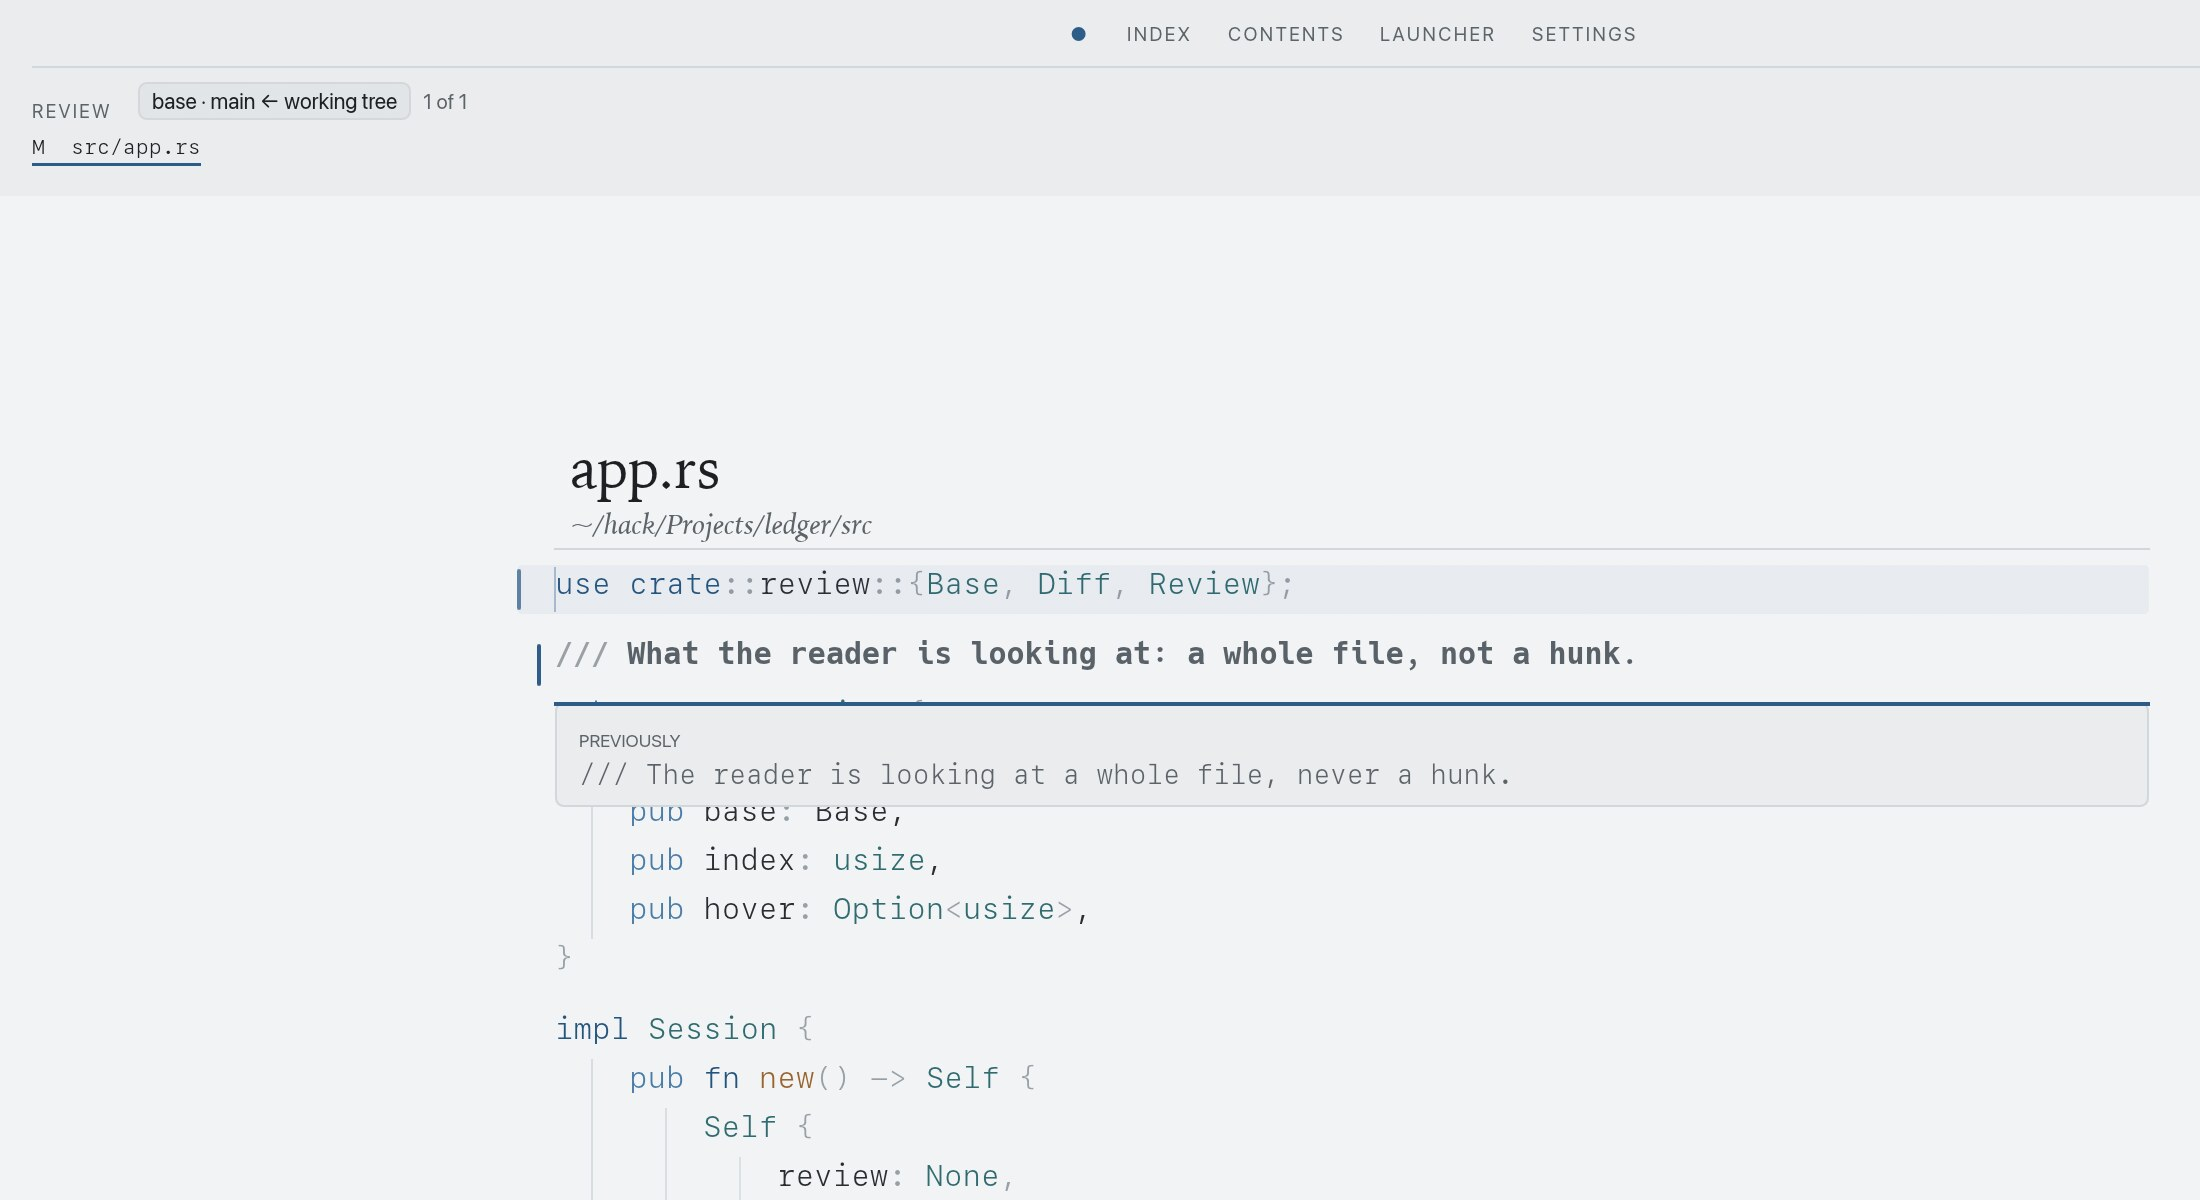
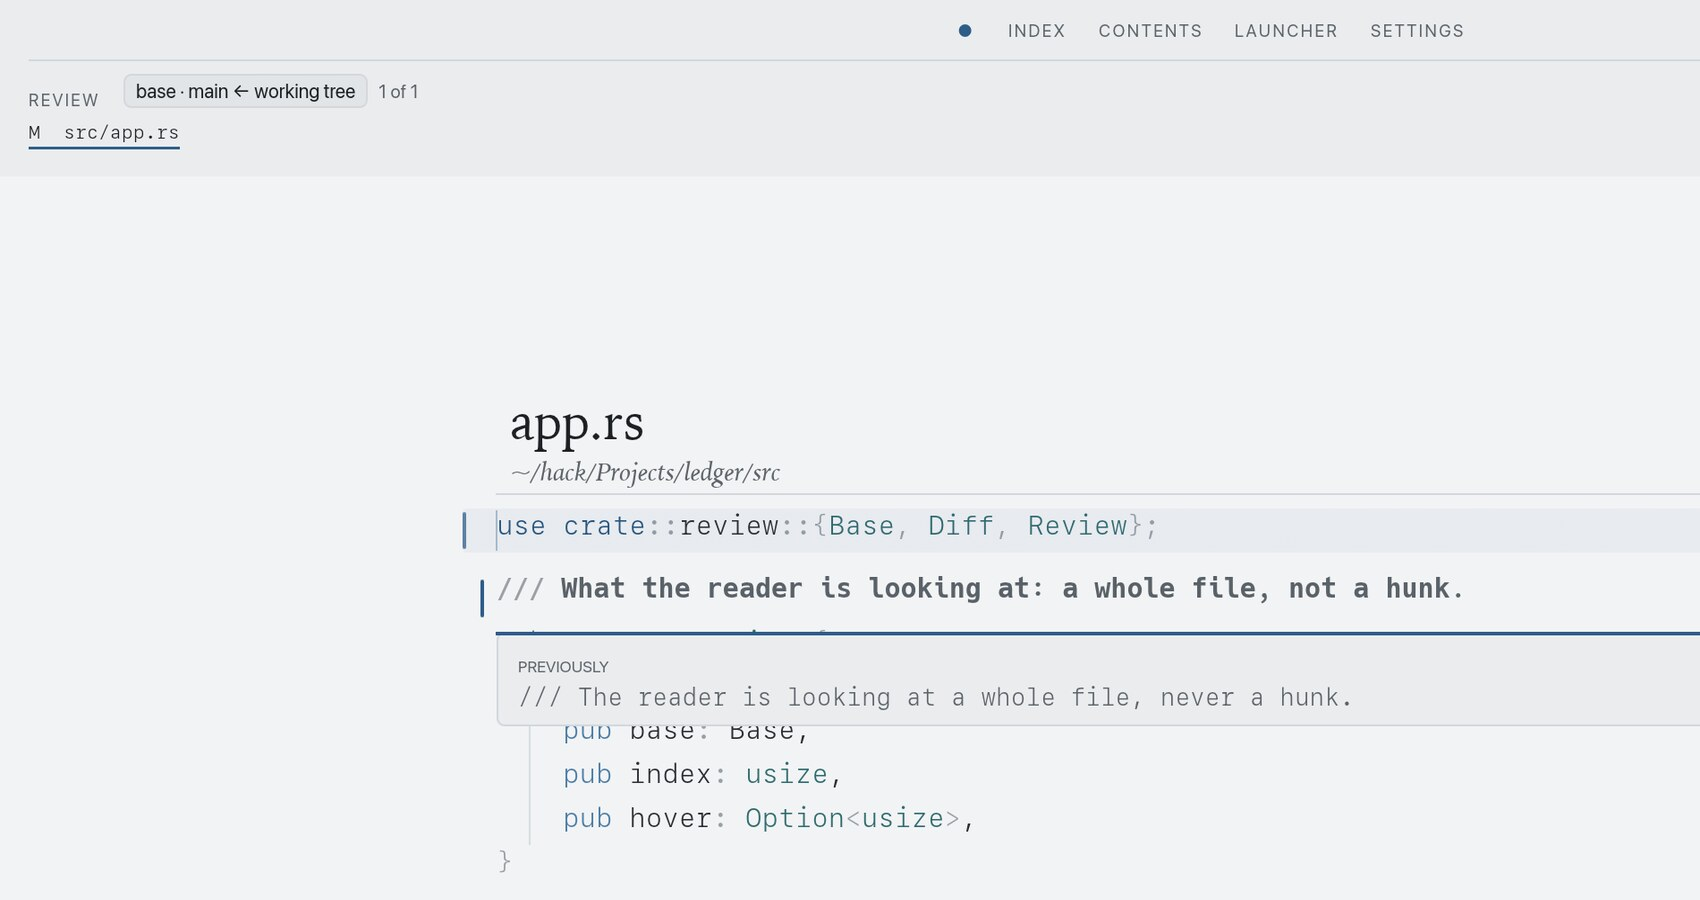
Bring the site figures back into the page's rhythm
The review capture was a full-width app window while the room uses a detail in a
column; it now has the same 1700x900 detail crop and the same two-column
placement, with a Lugano caption so the specimen is not mistaken for the page's
current theme.

The reading detail was being served from the old cached filename. Both figures
and their full-size links carry a version query, and the unused stale focus-lens
portrait is gone from the evidence.

diff --git a/docs/index.html b/docs/index.html
@@ -11,10 +11,10 @@
   <meta property="og:description" content="A native code reader for code you have to understand but didn't write. Read-only, with branch review, six complete looks and no editor in the way.">
   <meta property="og:type" content="website">
   <meta property="og:url" content="https://dovidio.github.io/zenith/">
-  <meta property="og:image" content="https://dovidio.github.io/zenith/reading-detail.jpg">
+  <meta property="og:image" content="https://dovidio.github.io/zenith/reading-detail.jpg?v=2">
   <meta name="twitter:card" content="summary_large_image">
   <link rel="stylesheet" href="zenith.css">
-  <link rel="stylesheet" href="site.css">
+  <link rel="stylesheet" href="site.css?v=2">
   <script>
     (function () {
       var valid = { lugano: 1, maionese: 1, bibione: 1, kununurra: 1, panittha: 1, newsprint: 1 };
@@ -112,8 +112,8 @@ cargo run --release -- ~/code/some-project</code></pre>
       <p>Read-only isn't a setting here. It's the shape of the room. Markdown renders as a document; a fenced <code>#</code> stays code.</p>
     </div>
     <figure class="window">
-      <a href="self-portrait.jpg"><img src="reading-detail.jpg" width="1700" height="900" loading="lazy" alt="The actual Zenith window, detail: review.rs with its title block, the bloom above it, and the first lines of the reading page."></a>
-      <figcaption>The actual app, detail · <a href="self-portrait.jpg">full size</a></figcaption>
+      <a href="self-portrait.jpg?v=2"><img src="reading-detail.jpg?v=2" width="1700" height="900" loading="lazy" alt="The actual Zenith window, detail: review.rs with its title block, the bloom above it, and the first lines of the reading page."></a>
+      <figcaption>Lugano · the actual app, detail · <a href="self-portrait.jpg?v=2">full size</a></figcaption>
     </figure>
   </section>
 
@@ -125,8 +125,8 @@ cargo run --release -- ~/code/some-project</code></pre>
       <p>Changed lines carry more weight, and the code they replaced lifts in place when you hover or press <code>p</code>. Untracked source is included; dependency trees never are. <code>J K</code> walks files, <code>[ ]</code> walks changes, and a definition detour returns to the same review page.</p>
     </div>
     <figure class="window">
-      <a href="review.jpg"><img src="review-detail.jpg" width="2200" height="1200" loading="lazy" alt="The actual Zenith window reviewing a working tree: the REVIEW strip names the branch and base, the changed file sits in the strip, and a changed line is lifted to show the code it replaced."></a>
-      <figcaption>Review, reading whole files · <a href="review.jpg">full size</a></figcaption>
+      <a href="review.jpg?v=2"><img src="review-detail.jpg?v=2" width="1700" height="900" loading="lazy" alt="The actual Zenith window reviewing a working tree: the REVIEW strip names the branch and base, the changed file sits in the strip, and a changed line is lifted to show the code it replaced."></a>
+      <figcaption>Lugano · review, reading whole files · <a href="review.jpg?v=2">full size</a></figcaption>
     </figure>
   </section>
 

diff --git a/docs/site.css b/docs/site.css
@@ -307,12 +307,15 @@ pre code { font: inherit; color: inherit; background: none; padding: 0; }
 .room-copy { min-width: 0; }
 .room-copy p { font-size: 16px; }
 .review {
+  display: grid;
+  grid-template-columns: 1fr .95fr;
+  gap: 48px;
   border-top: 1px solid var(--edge);
   padding: 30px 0;
+  align-items: start;
 }
-.review-copy { max-width: var(--measure); margin-bottom: 20px; }
+.review-copy { min-width: 0; }
 .review-copy p { font-size: 16px; }
-.review .window { max-width: 1200px; }
 .room-copy em { font-style: italic; }
 code {
   font-family: var(--voice-code);
@@ -383,7 +386,7 @@ code {
   .note { margin-bottom: 0; }
   .themes { align-items: flex-start; flex-direction: column; gap: 14px; }
   .theme-rack { justify-content: flex-start; }
-  .run, .room { grid-template-columns: 1fr; gap: 22px; }
+  .run, .room, .review { grid-template-columns: 1fr; gap: 22px; }
 }
 @media (max-width: 620px) {
   .sheet { width: calc(100% - 24px); margin: 12px auto; padding: 16px 16px 0; }

diff --git a/README.md b/README.md
@@ -7,7 +7,7 @@
 **A reading room for source code.**  
 <https://dovidio.github.io/zenith/>
 
-![Zenith reading its own source](docs/self-portrait.jpg)
+![Zenith reading its own source](docs/self-portrait.jpg?v=2)
 
 Zenith is a native, read-only code reader for code you have to understand but didn't write: a review, an inherited service, a dependency you need to trust. It is not an editor with the editing removed. The page opens alone; the index, contents, launcher and settings are doors you summon.
 
@@ -25,7 +25,7 @@ Review reads whole files, not hunks. `g r` opens the working tree; `g b` chooses
 
 Changed lines carry more weight, and the code they replaced lifts in place when you hover it or press `p`. Untracked source is included; ignored and dependency trees never are. `J K` moves through changed files, `[ ]` through changes, and `q` keeps the review through a definition detour.
 
-![Reviewing a branch in Zenith](docs/review-detail.jpg)
+![Reviewing a branch in Zenith](docs/review-detail.jpg?v=2)
 
 ## Reading
 

diff --git a/PRODUCT.md b/PRODUCT.md
@@ -89,8 +89,8 @@ lighter editor; it is a different reading surface.
 - `DESIGN.md` — the intended interaction and visual system; a specification, not proof of
   implementation.
 - `docs/index.html`, `docs/site.css`, `docs/zenith.css` — the public site.
-- `docs/self-portrait.jpg`, `docs/self-portrait-zen.jpg`, `docs/themes.jpg` — app
-  screenshots produced by `--smoke`.
+- `docs/self-portrait.jpg`, `docs/reading-detail.jpg`, `docs/review-detail.jpg`,
+  `docs/review.jpg`, `docs/themes.jpg` — app screenshots produced by `--smoke`.
 - Source and tests under `src/`, including headless diagnostics (`--dump`, `--fonts`,
   `--lsp`, `--smoke`).
 - No customer testimonials, benchmarks, case studies, pricing, press or deployment
